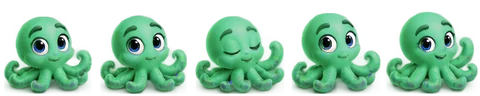
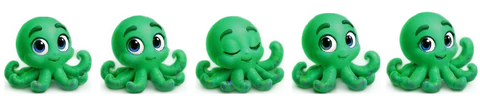
Agent Panel: the octopus's green matches the dot's, vivid and darker

diff --git a/tools/mascot-export.py b/tools/mascot-export.py
@@ -29,8 +29,9 @@ STRIPS = {
     "asking": (1, 3, [1, 2, 4, 2], "red"),        # 8 Puzzled, question marks (the box frame left out)
 }
 # the panel's dot colours (--green #16a34a, --red #e11d48, --gone grey) as a target hue for the
-# octopus's purple (hue about 250), with saturation and brightness scaled so it is not neon
-COLOURS = {"green": (142, 0.8, 0.85), "red": (350, 0.9, 0.95), "grey": (None, 0.1, 0.85)}
+# octopus's purple (hue about 250, median saturation 0.71, brightness 0.80), with saturation and
+# brightness scaled; green is scaled to the dot's own (0.87, 0.64), as a lighter green read as pale
+COLOURS = {"green": (142, 1.2, 0.8), "red": (350, 0.9, 0.95), "grey": (None, 0.1, 0.85)}
 
 
 def recolour(img, colour):

diff --git a/memory.md b/memory.md
@@ -27,7 +27,7 @@ Key file: `~/.claudex/profiles/glm/.env`, line `CLAUDEX_KEY="..."`. Never in thi
 - Right-click menu (2026-11-07, the maintainer's spec): Hide / Unhide, Close (open sessions only), Delete. The menu is HTML inside the panel (a web page cannot draw outside its window), opened at the pointer and kept inside the panel; Delete is red on a pale red hover. It closes on Escape, on a click outside (that click does nothing else), on scroll and on focus loss. The native menu was rejected (the maintainer, 2026-11-08: it ignores the theme). Hidden ids live in `~/.claude/state/agent-panel/hidden.json`; Hidden sessions, sessions whose folder is gone and headless runs (`entrypoint` `sdk-cli` in the transcript: a `claude -p` that another session started, e.g. tech news calling the Topview MCP; 2026-11-08, the maintainer) stay out of the main list and the header count; a headless card says `headless` and its menu has no Hide; the quiet link *Show Hidden, Deleted and Headless (n)* in the strip under the list adds a HIDDEN, DELETED AND HEADLESS section after the main list and scrolls to it. Cards there are not greyed; their second line says `hidden` or `folder deleted` (the maintainer, 2026-11-07: greyed cards inside the main list read as clutter; the user's word is "deleted", not "missing"). Open/working dots are refreshed every 2 s from `~/.claude/sessions/<pid>.json` alone (the full transcript scan stays at 15 s), so a session closed in its own terminal loses its dot within 2 s. Close and Delete confirm in two steps beside the control, per `mindmap/table.md` *Delete confirmation* (2026-11-08, replacing two modal dialogs): the menu turns into a small card with the question, one sentence on what happens, Cancel (focused, the default) and *Yes, Close* / *Yes, Delete*, placed under the card (above it near the bottom), never on it. Delete on an open session closes it first and waits up to 10 s for its process to end (`close_delete`); on a session stored inside WSL it is shown greyed and says why under itself (a network path has no Recycle Bin). It then moves the transcript, its `<id>/` folder and `file-history/<id>/` to the Recycle Bin with `SHFileOperationW` (`FOF_ALLOWUNDO`). Project files and the project's auto memory are never touched. Close sends `WM_CLOSE` to the session's window when no other open session shares it, otherwise ends the process; the transcript stays.
 - Tested 2026-11-07: work area back to the full 1920 px with the panel running; a maximised window spans the full width and covers the panel; Ctrl+Alt+C raised the panel over it.
 - Panel look (2026-11-08): the Afiniti Spark theme (`mindmap/design_themes/spark_theme`) as CSS in `agent-panel.html`: Spark colours, 14 px cards with the resting `--shadow`, 10 px search box with a blue focus ring, blue hover border, colour-matched glow on the confirm buttons, blue to cyan logo tile as inline SVG; gold only for rewards. State (the maintainer, 2026-11-09, replacing a blinking dot): the dot is green for a working or open session, grey for a closed one, red for one asking. The whole card of a working session breathes: its background and a ring fade to green and back every 2.4 s (a plain blink of the dot was not seen from afar; a hard blink of whole cards, several at once, was rejected as too loud at the screen edge). A session whose own window shows a prompt waiting for an answer (a permission question or a dialog) pulses red, faster (1.2 s), so it stands out among working ones. Under reduced motion the card keeps a still green or red tint and ring, and the working dot is a hollow ring. The red state comes from `waitingFor`: Claude Code writes it into `~/.claude/sessions/<pid>.json` while `status` still says `busy`, and the panel reads it every 2 s. Before this such a session looked as if it were working. Fonts are Segoe UI (Manrope and Inter are not installed; bundling them was offered, not chosen yet). The Tk version (2026-11-07) had to replace shadows with borders and draw icons with PIL; that is why it was ported (see `mindmap/claude-plus-fa.md`, Decisions).
-- Mascot (2026-11-09, the maintainer): a purple octopus from the maintainer's own sprite sheet, the header's logo (36 px, showing the most pressing state in the list) and on every card (38 px, on the left). It replaced, the same day, MindCopy's Knowledge Gremlin, whose detail turned to mush at 38 px; drawn SVG droplets were tried in between and rejected (too soft, then a superhero version that did not read). Each strip is recoloured at export to its state's dot colour (the maintainer, 2026-11-09): green for working and open, red for asking, grey for closed; only the octopus's purple (hue 232 to 320) is shifted, so the blue eyes and the props keep their colours; the logo and the tray icon stay purple. Mood by state: working reads a tablet (loop, 650 ms a frame), asking looks puzzled with a question mark (loop, 550 ms), open looks around and blinks once then rests 5 s (450 ms), closed sleeps without moving. The sheet's frames are separate poses, not in-betweens, so each holds about half a second; faster swapping looked jittery. One `requestAnimationFrame` timer drives every strip; each card starts at a random moment so they do not move in step; reduced motion shows frame 0 only (rules: `mindmap/mascot.md`). Every card shows the same octopus: the sheet has one character, so cards no longer look different from each other.
+- Mascot (2026-11-09, the maintainer): a purple octopus from the maintainer's own sprite sheet, the header's logo (36 px, showing the most pressing state in the list) and on every card (38 px, on the left). It replaced, the same day, MindCopy's Knowledge Gremlin, whose detail turned to mush at 38 px; drawn SVG droplets were tried in between and rejected (too soft, then a superhero version that did not read). Each strip is recoloured at export to its state's dot colour (the maintainer, 2026-11-09): green for working and open, red for asking, grey for closed; green matched to the dot's own saturation and brightness, after a paler green read as washed out; only the octopus's purple (hue 232 to 320) is shifted, so the blue eyes and the props keep their colours; the logo and the tray icon stay purple. Mood by state: working reads a tablet (loop, 650 ms a frame), asking looks puzzled with a question mark (loop, 550 ms), open looks around and blinks once then rests 5 s (450 ms), closed sleeps without moving. The sheet's frames are separate poses, not in-betweens, so each holds about half a second; faster swapping looked jittery. One `requestAnimationFrame` timer drives every strip; each card starts at a random moment so they do not move in step; reduced motion shows frame 0 only (rules: `mindmap/mascot.md`). Every card shows the same octopus: the sheet has one character, so cards no longer look different from each other.
 - Card rows (2026-11-08, the maintainer; path row removed 2026-11-09): title, whose tooltip is the full folder path (`where_of`: a WSL-distro session gets `\\wsl.localhost\<distro>` in front, `//` paths turn into backslashes), with the title in full above it when the title is cut (navy, after 400 ms of pointer movement, gone after 3 s, on leave, on a click or on scroll, per `tooltip.md`, which also rules out opening it on keyboard focus; a screen reader gets the path in the card's label). The path had its own row until 2026-11-09; dropping it makes cards smaller so more sessions fit, at the cost of telling same-titled sessions apart only by pointing. Search still matches the path. Then `ctx` bar + percent from `~/.claude/state/context/<sid>.json` (green < 50, gold < 80, red above, as on the status line; left out entirely when unknown) and on the right `hidden` / `headless` / `folder deleted` / age, joined by ` · `. Every part of that row but the flags keeps its width; the flags end in `…` when they do not fit, with the same tooltip showing them in full (a row wider than the card gave the list a horizontal scrollbar, 2026-11-08). Cards are 56 px high. The `(WSL)` tag is gone: the path shows it. The bottom strip shows `5h` and `week` bars from `rate_limits.json`; a figure whose `resets_at` has passed says *no figure yet*. Cards are kept and patched by id, never redrawn wholesale: open sessions change every 2 s, and a redrawn card drops the hover and the title's tooltip (this hid the tooltip in the first web build).
 - `apply design.md` (2026-11-08, three passes) changed the panel: a message about one card shows under that card (an error stays until the next click or key, a success leaves after 5 s); a message about the whole panel floats above the bottom link, and a failed scan stays there in amber until a scan succeeds; the search has a × and Esc, searches title and full path, marks hits and turns the count into `matches/total`; a skeleton shows until the first scan (`scanned` in the state); the age moved to the title row; titles cut with … get a tooltip; every button has a custom tooltip (no `title`); cards are keyboard buttons (Enter or Space opens, Shift+F10 or the menu key opens the menu, arrows walk it); reduced motion stops all motion and draws the working dot as a ring; the closed dot and the bottom link were darkened for contrast. `statusline.py` now rounds halves up like the panel, so both show the same percent.
 - Clicks (2026-11-07, the maintainer): a closed session opens only on a double click, so a stray click never starts one (a single click says "Double-click to open it.", held back 450 ms so a double click never shows it); an open session comes forward on a single click.
